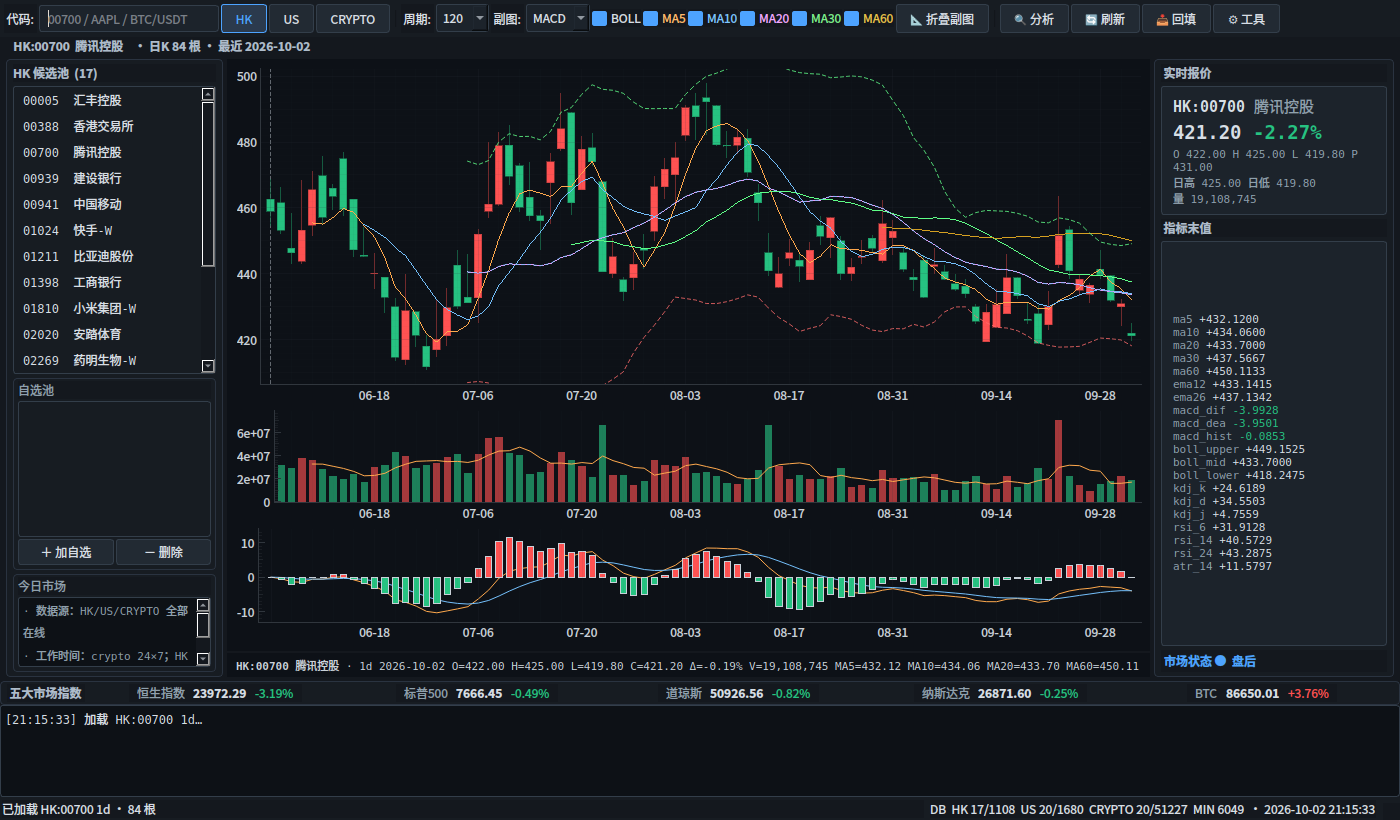
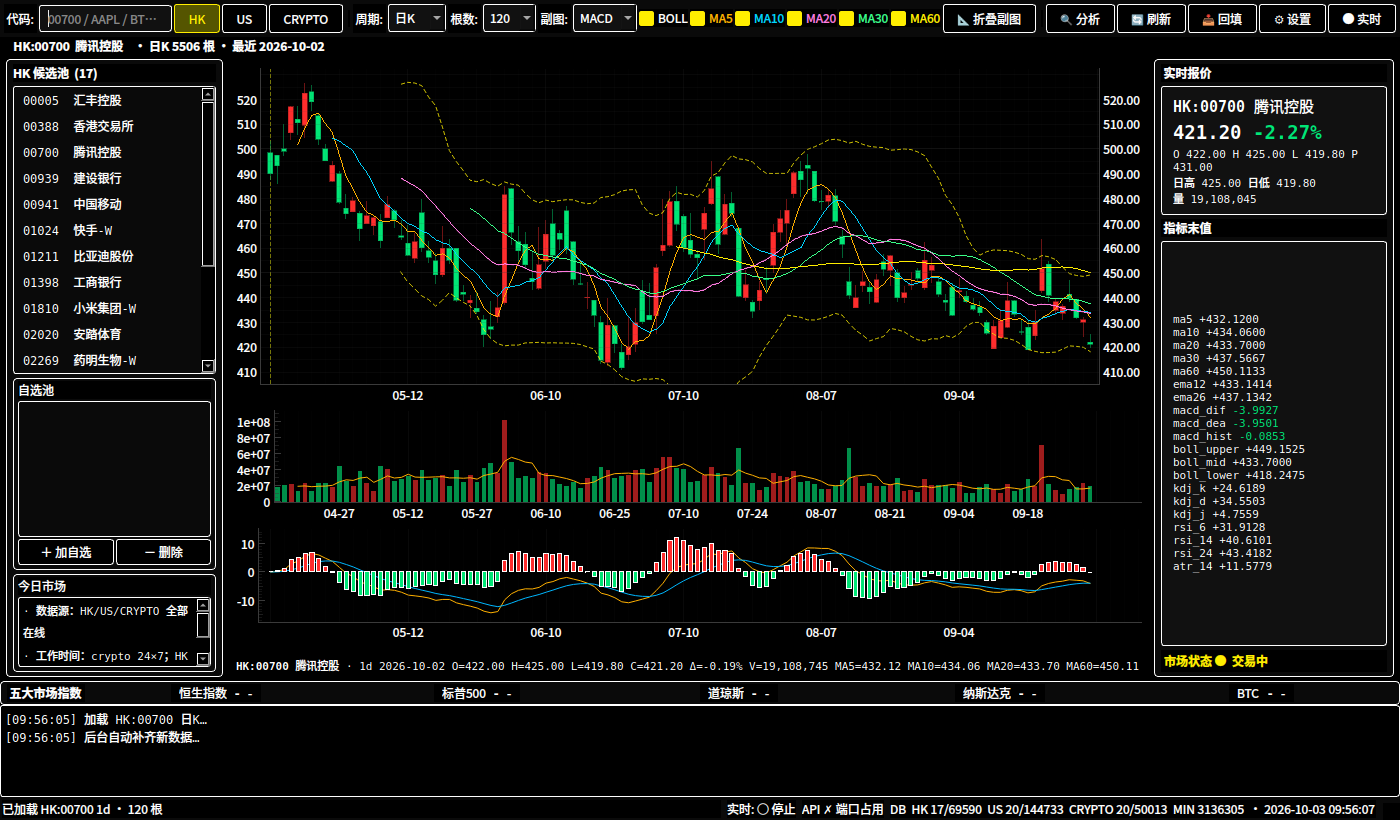
README 重写：三件套架构/实时引擎/信号语义/回测/API/插件/配置 + 新 UI 截图

diff --git a/README.md b/README.md
@@ -1,148 +1,173 @@
 # market-sniper
 
-> 港 / 美 / 加密 短线研究工具：多市场 K 线统一查看 + 向量化指标 + PyQt6 桌面 GUI。
-> 
-> 主题、布局（顶部工具栏 / 暗色密集三联图 / 五大指数条 / 底部日志）参考 stock_predict。
+> 港 / 美 / 加密 **超短线研究 + 实时交易框架**：多市场 K 线、分时图、实时引擎、
+> 仓位语义信号、标准回测、本地 API + 浏览器插件。
+> UI 风格参考 stock_predict（高对比暗色主题）。
 
 ![主窗口](docs/screenshot_main.png)
 
-## 功能
+## 三件套架构
 
-- **三市场统一**：HK 港股 / US 美股 / CRYPTO 加密
-- **多周期**：日 K + 1m/5m/15m/30m/1h 分钟K
-- **指标**（TDX 口径 numpy 向量化）：
-  - MA / EMA / BOLL / MACD / KDJ / RSI / ATR
-  - DMI / ADX / OBV / CCI / 涨跌天数 / 动量 / 波动率
-- **GUI**（PyQt6 + pyqtgraph，沿用 stock_predict 暗色密集布局）：
-  - 工具栏：市场 / 代码 / 周期 / 副图 (MACD/KDJ/RSI/ADX/量比) / BOLL / MA5-60 / 折叠副图
-  - 信息行：标的简介 / 加载进度 / 悬停信息
-  - 主体：自选池（左） / K线三联图（中） / 实时报价 + 指标末值（右）
-  - 五大市场指数条（恒生 / 标普 / 道指 / 纳指 / BTC）
-  - 底部日志
-
-![折叠副图](docs/screenshot_folded.png)
-
-## 数据源
-
-| 市场     | 日K          | 分钟K           | 代码形态           |
-| ----------- | --------------- | ----------------- | ------------------- |
-| HK       | yfinance | yfinance | `HK:00700` |
-| US       | yfinance | yfinance | `US:AAPL` |
-| CRYPTO   | ccxt (Binance/OKX/Bybit) | ccxt | `CRYPTO:BTC/USDT` |
-
-- yfinance 通过直接调用 Yahoo Finance v8 chart endpoint 实现（绕开 yfinance Ticker
-  触发 quoteSummary 404 的问题，参考 [yfinance](https://github.com/ranaroussi/yfinance)
-  仓库中 HK 标的的兼容性 bug）。
-- ccxt 默认走 Binance，Binance 失败时降级 OKX → Bybit → Gate。
-
-## 安装
-
-```bash
-pip install -r requirements.txt
+```
+┌────────────────────┐   WS 实时行情    ┌──────────────┐
+│  客户端 (PyQt6)     │ ←────────────── │  Binance     │
+│  · K线/分时/指标    │                 └──────────────┘
+│  · 实时引擎+策略    │── 计算转发 ───→  ┌──────────────┐
+│  · 本地 HTTP API    │                │  compute/    │  ← 可单独部署
+│    127.0.0.1:7132  │←── JSON ──────  │  (计算端)    │
+└─────────┬──────────┘                 └──────────────┘
+          │ 买卖点
+┌─────────▼──────────┐
+│  浏览器插件 (MV3)   │  TradingView / Binance / Yahoo / 雪球 / 长桥
+└────────────────────┘
 ```
 
-依赖：`ccxt / yfinance / numpy / pandas / requests / PyQt6 / pyqtgraph`。
+- **客户端**：PyQt6 桌面程序。数据层（SQLite）、实时引擎、GUI、API、计算转发都在这里。
+- **计算端**：`compute/` 下的自包含脚本（仅依赖 numpy），stdin/stdout JSON，
+  可脱离主程序单独跑、单独部署；信号与回测共用同一转发协议。
+- **插件**：只做标的识别 + 信号展示，计算全在本地客户端，不向任何外部服务器发数据。
 
-> 需要 Python 3.10+；本项目开发在 Python 3.14。如果系统 python 是 3.10+ 且用 venv：
-> ```bash
-> python3 -m venv .venv
-> source .venv/bin/activate
-> pip install -r requirements.txt
-> ```
+## 功能
+
+- **三市场统一**：HK 港股 / US 美股 / CRYPTO 加密，代码形态 `HK:00700` / `US:AAPL` / `CRYPTO:BTC/USDT`
+- **周期**：分时（价格线+均价线+昨收基准+右轴百分比）/ 1m / 5m / 15m / 30m / 60m / 日K
+- **指标**（numpy 向量化）：MA / EMA / BOLL / MACD / KDJ / RSI / ATR / DMI / ADX / OBV / CCI / 量比
+- **实时引擎**：Binance WebSocket 组合流（逐笔 aggTrade + 1s K线 + 盘口 bookTicker），
+  断线指数退避重连；事件总线 → 策略 → 信号 → K线买卖点叠加；离线 Mock 源联调
+- **信号是仓位动作**（非独立 BS 点）：美股/加密 `开多 / 平多 / 开空 / 平空`，HK `买 / 卖`（只多）
+- **标准回测**：下一根开盘成交 + 手续费/滑点 + 全仓，HK 只多 / US+CRYPTO 可空；
+  收益/年化/Sharpe/回撤/胜率/盈亏比
+- **启动自动补齐**：每次打开程序后台增量拉新（日K接续 + 分钟K刷新）
+- **数据源可配置**：设置面板选交易所（Binance/OKX/Bybit/Gate），代理热生效
+
+![分时图](docs/screenshot_timeshare.png)
 
 ## 快速开始
 
 ```bash
-# 1. 先把默认候选池（HK 17 / US 20 / Crypto 20）回填最近 120 天日 K
+# 依赖：Python 3.10+（Linux 优先）
+pip install -r requirements.txt      # 或用 release 包里的 install.sh
+
+# 首次回填（三市场候选池，日K全历史 + 分钟K）
 python main.py --backfill
 
-# 2. 启动 GUI（双击桌面快捷方式亦可）
-python main.py
-# 或：/home/lan/桌面/market-sniper/run.sh
+# 启动 GUI（首次需在 ⚙ 设置里确认代理，默认 127.0.0.1:7890）
+./run.sh
 ```
 
-**首次启动**会主动拉取默认标的。工具栏的「回填」可批量回填整个候选池。
+打开程序后台会自动补齐新数据；「📥 回填」对话框可按代码（分号分隔）+ 根数 + 周期定向拉取。
 
-## 用法
+## 实时引擎与策略接口
 
-### CLI 回填
-
-```bash
-# 单市场 / 单标的
-python -m market_sniper.data.backfill --market HK --days 365
-python -m market_sniper.data.backfill --symbols HK:00700,US:AAPL --days 365
-python -m market_sniper.data.backfill --market CRYPTO --period max   # 全历史
-python -m market_sniper.data.backfill --minute 1m                     # 1 分钟 K
-python -m market_sniper.data.backfill --force                        # 忽略本地最新日期强制重拉
-```
-
-### Python 内嵌
+工具栏「● 实时」启动引擎（数据源在 ⚙ 设置里选 Binance / Mock）。
+策略继承 `market_sniper/engine/strategy.py` 的 `Strategy`，在 `on_tick / on_bar`
+里返回 `Signal` 即触发买卖点：
 
 ```python
-from market_sniper.data import fetcher, db
+from market_sniper.engine import Strategy, Signal
 
-# 回填 BTC 日 K 全历史
-fetcher.backfill_daily("CRYPTO:BTC/USDT", period="max")
+class MyStrategy(Strategy):
+    name = "my"
 
-# 拉 1 分钟 K（默认 7d）
-fetcher.backfill_minute("HK:00700", timeframe="1m", period="7d")
-
-# 读本地库
-bars = db.load_daily_bars("CRYPTO", "BTC/USDT")
-print(bars["close"][-3:])
-
-# 算指标
-from market_sniper import indicators as ind
-ins = ind.compute(bars)
-print(ind.last_values(ins, ["ma20", "macd_dif", "rsi_14"]))
+    def on_tick(self, tick):            # tick: 逐笔成交（aggTrade）
+        ...
+        return Signal(tick.market, tick.code, tick.ts_ms,
+                      side="open_long", price=tick.price, strategy=self.name)
 ```
 
-## 目录结构
+信号 side 语义（展示元数据见 `signals.ACTION_META`）：
 
-```
-market-sniper/
-├── main.py                # 入口（GUI / --backfill / --health）
-├── run.sh                 # 桌面快捷方式指向的启动脚本
-├── market_sniper/
-│   ├── __init__.py
-│   ├── symbols.py         # 三市场代码互转
-│   ├── indicators.py      # TDX 风格向量化指标
-│   ├── data/
-│   │   ├── db.py          # SQLite schema + load/upsert
-│   │   ├── http.py        # 熔断器 + 代理路由（备用）
-│   │   ├── fetcher.py     # 统一 fetcher（按市场路由 + 入库）
-│   │   ├── backfill.py    # CLI 回填
-│   │   └── sources/
-│   │       ├── yfinance_us.py   # yahoo chart endpoint
-│   │       └── ccxt_crypto.py   # ccxt multi-exchange
-│   └── gui/
-│       ├── kline_widget.py      # PyQtGraph 蜡烛 + 副图
-│       └── main_window.py       # 主窗口
-├── scripts/
-│   └── screenshot.py      # 截图脚本（无 GUI 验证）
-├── data/                  # SQLite 缓存（market_cache.db）
-├── docs/                  # 截图
-├── requirements.txt
-└── README.md
+| 市场 | 动作 | K线标记 |
+|---|---|---|
+| US / CRYPTO | `open_long` 开多 / `close_long` 平多 / `open_short` 开空 / `close_short` 平空 | 实心▲红 / 空心▽绿 / 实心▼绿 / 空心△红 |
+| HK（只多） | `buy` 买 / `sell` 卖 | ▲红 / ▼绿 |
+
+逐笔落盘走 `ticks` 表 + 批量 writer（feed 回调内禁止直接写 SQLite）。
+
+## 信号算法与计算转发层
+
+信号与回测共用 `market_sniper/compute.py` 这一层，两种接入方式二选一：
+
+1. **进程内快路径**：在 `market_sniper/signals.py` 写同签名函数并注册
+   `SIGNAL_ALGOS["my_algo"] = my_algo`
+2. **转发慢路径**：把自包含脚本扔进 `compute/`（stdin JSON → stdout JSON），
+   无需注册即可被 `/api/signal`、CLI、回测调用
+
+```bash
+python -m market_sniper.compute list                                  # 可用脚本
+python -m market_sniper.compute signals --code HK:00700 --tf 1d       # 信号
+python -m market_sniper.compute backtest --code US:AAPL --tf 1d       # 回测报告
 ```
 
-## 数据存放
+内置示例算法 `boll_atr`：BOLL 下/上轨回归 + 仓位状态机 + ATR 止损参考。
 
-- 默认库：`data/market_cache.db`（SQLite WAL）
-- 表：
-  - `stocks(market, code, name, exchange, ...)` 元信息
-  - `daily_bars(market, code, date, OHLCV, source)` 日 K，UNIQUE(market,code,date)
-  - `min_bars(market, code, timeframe, ts, OHLCV, source)` 分钟 K
-  - `meta(key, value, ts)` 配置 / 上次拉取时间
-- 覆盖路径：环境变量 `MARKET_SNIPER_DB=/path/to.db`
+## 标准回测
 
-## 已知限制
+引擎在 `compute/backtest.py`（自包含）。模型约定：
 
-- **历史分钟 K**：
-  - yfinance 1m 限 7 天，5m/15m/30m 限 60 天，1h 限 730 天
-  - ccxt（Binance）历史分钟 K 完整，但需分页拉取，量大时慢
-- **数据准确性**：yfinance 数据有 15 分钟延迟（非 pro 账户）
-- **A 股**：不支持（如需可参考 stock_predict 的腾讯/新浪源自行扩展）
+- 信号在**下一根 K 线开盘价**成交（无未来函数），开盘价加滑点
+- 手续费双边 `fee_bps`、滑点 `slippage_bps`、全仓 `position_pct`
+- HK 只做多；US / CRYPTO 可做空；逐 bar 净值 + 强制收尾平仓
+
+输出：区间/年化收益、Sharpe、最大回撤、胜率、盈亏比、平均持有、仓位暴露、交易明细、净值曲线。
+
+## 本地 API（随 GUI 启动，仅绑 127.0.0.1）
+
+| 端点 | 说明 |
+|---|---|
+| `GET /api/health` | 存活检查 |
+| `GET /api/symbols` | 三市场标的池 |
+| `GET /api/signal?code=HK:00700&tf=1d&algo=boll_atr` | 信号（code 支持无前缀自动识别） |
+| `GET /api/backtest?code=BTC/USDT&tf=60m&bars=1500` | 回测（走计算转发层） |
+
+端口 `config.api.port`（默认 7132），设置面板可改、热重启。
+
+## 浏览器插件（extension/，MV3）
+
+开着客户端时，在行情网站的 K 线页面上叠加买卖点浮层
+（动作 + 价格 + 现价偏离 + 止损参考 + 当前仓位 + 最近信号）：
+
+| 网站 | 标的识别 |
+|---|---|
+| TradingView | URL `?symbol=` 参数 |
+| Binance | `/trade/BTC_USDT` |
+| Yahoo 财经 | `/quote/AAPL` |
+| 雪球 | `/S/00700` |
+| 长桥证券 | `/stock/00700-HK`、`/trade/HK.00700` |
+
+安装：`chrome://extensions` → 开发者模式 → 加载已解压的扩展程序 → 选 `extension/`。
+A股/新加坡会明确提示不支持。
+
+![实时买卖点](docs/screenshot_live.png)
+
+## 数据层
+
+- SQLite（WAL）：`stocks` / `daily_bars` / `min_bars` / `ticks` / `meta`，
+  路径默认 `data/market_cache.db`（`MARKET_SNIPER_DB` 可覆盖）
+- 设置持久化 `data/settings.json`（`market_sniper/config.py`，`get_config()` 单例）
+
+```jsonc
+{
+  "network":  { "proxy_enabled": true, "proxy_host": "127.0.0.1", "proxy_port": 7890 },
+  "sources":  { "HK": "yfinance", "US": "yfinance", "CRYPTO": "binance" },
+  "feed":     { "backend": "binance", "symbols": ["BTC/USDT"], "persist_ticks": false },
+  "backfill": { "on_start": true, "days": 30 },
+  "api":      { "port": 7132 },
+  "strategy": { "enabled": false, "params": {} }
+}
+```
+
+## 数据源与已知限制
+
+| 市场 | 日K | 分钟K | 备注 |
+|---|---|---|---|
+| HK | yfinance 全历史 | 1m 限 7d / 5m~30m 限 60d / 60m 限 730d | 免费源延迟约 15 分钟 |
+| US | yfinance 全历史 | 同上 | 免费源延迟约 15 分钟 |
+| CRYPTO | ccxt 全历史（分页） | ccxt 各档 1000 根 | 实时 WS 免费无上限 |
+
+- Yahoo `range=max` 会降采样，程序内已改走显式起止区间（勿直接调 Yahoo 原生参数）
+- 实时 WS 需代理可达 Binance；无代理环境会被 reset
+- 不支持 A股（CN 已移除，不要加回来）
 
 ## License
 
